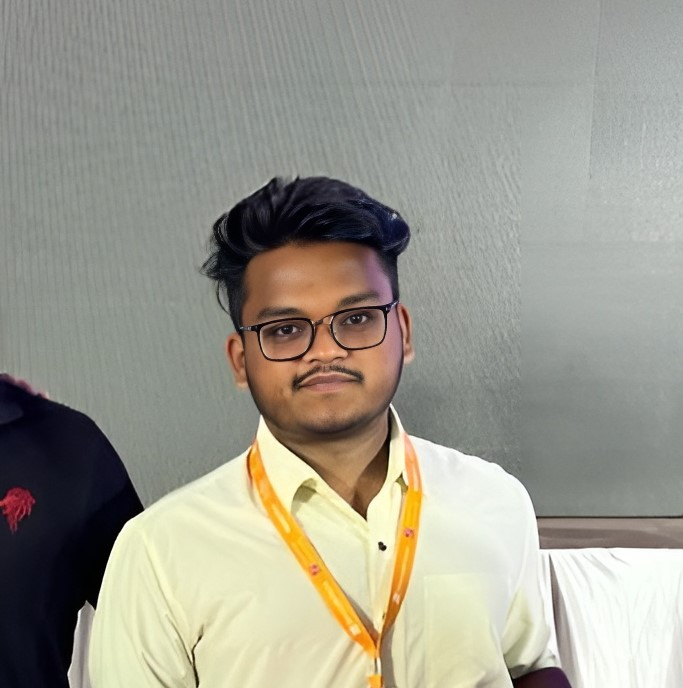
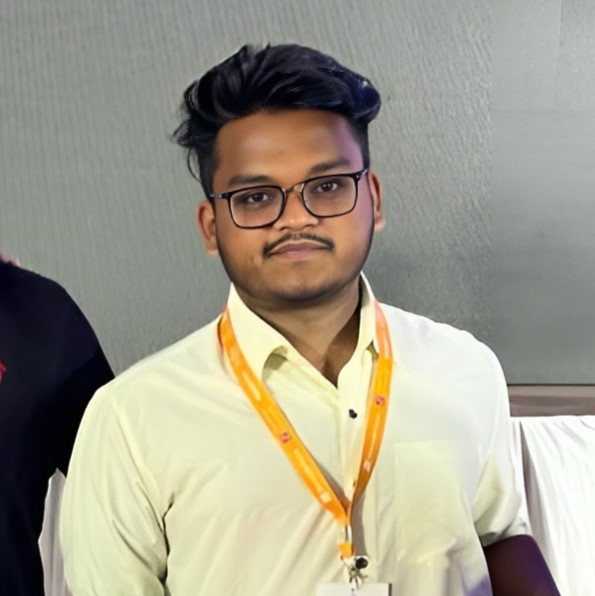
save

diff --git a/styles.css b/styles.css
@@ -271,6 +271,9 @@ body {
     align-items: center;
     z-index: 1;
 }
+.m2{
+    margin-left:-25rem;
+}
 
 .nav4Content {
     display: flex;
@@ -296,7 +299,6 @@ body {
         bottom: 100rem;
         opacity: 0;
     }
-
     100% {
         bottom: 5rem;
         opacity: 1;
@@ -314,7 +316,6 @@ body {
         bottom: 5rem;
         opacity: 1;
     }
-
     100% {
         bottom: 100rem;
         opacity: 0;
@@ -522,6 +523,7 @@ body {
         align-items: center;
         gap: 0;
         border-top-right-radius: 1.4rem;
+        border-bottom-left-radius:1.4rem;
     }
 
     .navbar__menu ul li a {
@@ -553,11 +555,13 @@ body {
     }
 
     .memberImage {
-        height: 5rem;
-        width: 5rem;
+        display: block;
+        height: 8rem;
+        width: 8rem;
         object-fit: contain;
-        border-radius: 2.5rem;
+        border-radius: 4rem;
         border: 0;
+        border:0.1rem solid black;
     }
 
     .memberName {
@@ -581,8 +585,49 @@ body {
         user-select: none;
         padding: 0 0.5rem;
     }
-
-    .bottom {
-        bottom: 5rem;
+    .m2{
+        top:5rem;
+        left:8rem;
+        gap:2rem;
+    }
+    .m1{
+        top:-5.5rem;
+        left:-6rem;
+        gap:2rem;
+    }
+    .nav4{
+        bottom:6.7rem;
+        right:1rem;
+    }
+    .memberName{
+        bottom:0.01rem;
+        font-size: 0.8rem;
+        text-align: center;
+        color: white;
+    }
+    .position{
+        bottom:0.01rem;
+        text-align: center;
+        font-size: 0.6rem;
+    }
+    @keyframes nav4Animation {
+        0%{
+            top:100rem;
+            opacity: 0;
+        }
+        100%{
+            bottom:6.7rem;
+            opacity: 1;
+        }
+    }
+    @keyframes nav4AnimationRev {
+        0% {
+            bottom: 5rem;
+            opacity: 1;
+        }
+        100% {
+            top: 100rem;
+            opacity: 0;
+        }
     }
 }

diff --git a/index.html b/index.html
@@ -66,23 +66,25 @@
                 join us in shaping a greener and more efficient future.</p>
         </div>
         <div class="nav4">
-            <div class="nav4Content">
-                <div class="yograj top">
+            <div class="nav4Content m1">
+                <div class="yograj">
                     <img src="./layers/director's images/Yograj.jpg" alt="" class="memberImage">
                     <div class="memberName">Yograj Rudhankar</div>
                     <div class="position">CEO</div>
                 </div>
-                <div class="rohan top">
+                <div class="rohan">
                     <img src="./layers/director's images/Rohan.jpg" alt="" class="memberImage">
                     <div class="memberName">Rohan Mathur</div>
                     <div class="position">Lead Researcher</div>
                 </div>
-                <div class="mohit bottom">
+            </div>
+            <div class="nav4Content m2">
+                <div class="mohit">
                     <img src="./layers/director's images/Mohit.jpg" alt="" class="memberImage">
                     <div class="memberName">Mohit Yadhuvanshi</div>
                     <div class="position">Head Engineer</div>
                 </div>
-                <div class="shubham bottom">
+                <div class="shubham">
                     <img src="./layers/director's images/Shubham.jpg" alt="" class="memberImage">
                     <div class="memberName">Shubham Shakti</div>
                     <div class="position">CTO</div>
